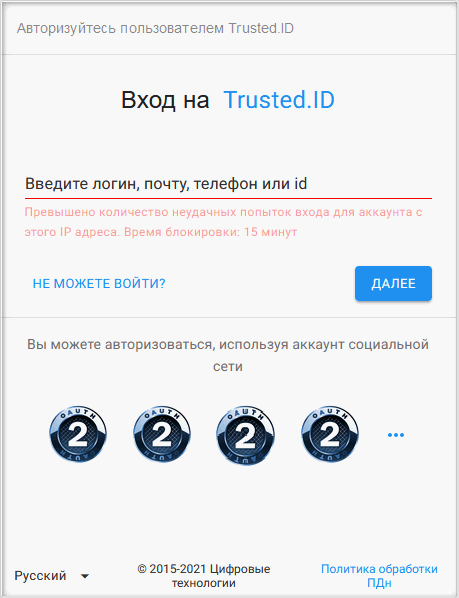
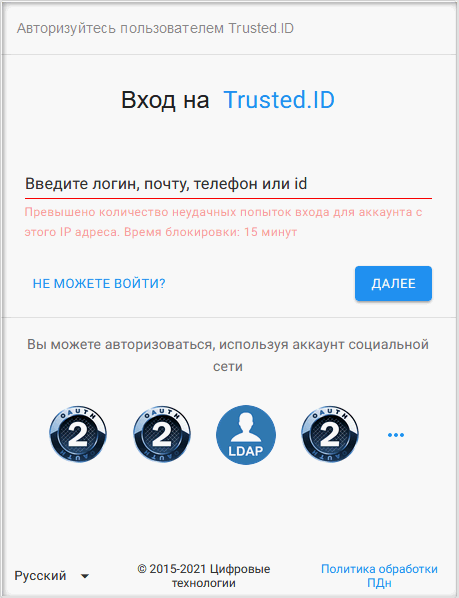
desc

Changed region(s): [[0.4575, 0.6622, 0.61, 0.7826]]

diff --git a/content/04-v1.5/8-instructions/LDAP.md b/content/04-v1.5/8-instructions/LDAP.md
@@ -1,0 +1,97 @@
+---
+slug: "/post2"
+title: "Создание LDAP-провайдера и подключение в приложение для авторизации через провайдер"
+sort: "03"
+---
+
+## Создание LDAP-провайдера и подключение в приложение для авторизации через провайдер
+
+
+![ldap-image](./images/ldap-image.png "LDAP")
+
+Провайдер LDAP предназначен для авторизации пользователя через настроенный Active Directory.
+
+***Active Directory*** — служба каталогов корпорации Microsoft, предназначеная для хранения и организации объектов сети в иерархическую защищенную логическую структуру, например пользователей, компьютеров или других физических ресурсов. 
+
+Более подробно можно ознакомиться с следующих источниках:
+* [Википедия](https://ru.wikipedia.org/wiki/Active_Directory);
+* [1cloud](https://1cloud.ru/help/windows/struktura-hranilischa-active-directory).
+----
+
+## Предварительные шаги
+
+1. Зарегистрируйтесь и/или авторизуйтесь на сервисе (далее рассматривается сервис [TRUSTED.PLUS](https://id.trusted.plus)).
+   
+2. Создайте приложение.  
+   [Инструкция по созданию приложения.](https://docs.trusted.plus/03-v1.3/8-instructions/create-app)
+   
+##  Шаг 1. Создание провайдера типа LDAP
+
+1. Выберите раздел **Мои провайдеры** в навигационой панели в личном кабинете.
+   
+   ![my-provider](./images/my-provider.png "Мои провайдеры")
+   
+2. Нажмите на кнопку добавление нового провайдера и выберите провайдер **LDAP**.
+   
+   ![add-provider-btn](./images/add-app-button.png "Кнопка добавления нового провайдера") ![select-prov-button](./images/select-prov-button.png "Список типов провайдеров")
+
+4. В открывшейся форме укажите:
+   - название LDAP-провайдера;
+   - адрес сервера LDAP (поле ldap_url);
+   - контекст учетных записей LDAP (поле ldap_base);
+   - имя домена LDAP (поле ldap_domain).
+
+    При необходимости, заполните поля:
+    - описание провайдера;
+    - адрес профиля пользователя;
+    - фильтр поиска учетной записи (поле ldap_filter);
+    - список сопоставления атрибутов LDAP (поле ldap_mapping).
+
+5. Нажмите кнопку **Создать**.
+
+    ![create-provider](./images/create-provider.png "LDAP провайдер")
+   
+5. Провайдер появляется в списке провайдеров:
+
+    ![view-new-provider](./images/view-new-provider.png "Список провайдеров")
+----
+##  Шаг 2. Добавление созданного LDAP провайдера в приложение
+   
+1.  Выберите раздел **Мои приложения** в личном кабинете.
+   
+      ![my-app-menu.png](./images/my-app-menu.png "Мои приложения")
+
+2. В списке приложений выберите приложение, в которое будет добавлена авторизация по LDAP-провайдеру.
+   
+      ![view-new-app.png](./images/view-new-app.png "Список приложений")
+
+3. В открывшемся окне настроек приложения в разделе **Список провайдеров** нажмите кнопку добавления нового провайдера.
+4.  ![add-provider-btn](./images/add-provider-btn-to-app.png "Кнопка добавления провайдера")
+   
+      ![add-provider-btn](./images/list-providers.png "Список подключенных провайдеров") 
+
+5. Установите флаг напротив созданного провайдера в списке доступных провайдеров и нажмите кнопку **Сохранить**.
+   
+      ![new-provider-in-path-to-access-app](./images/new-provider-in-path-to-access-app.png "Список провайдеров") 
+
+6. Список провайдеров приложения обновится, и в нем отразится добавленный провайдер.
+
+      ![paths-to-access-app](./images/paths-to-access-app.png "Список провайдеров")
+
+7. В разделе **Способы авторизации** убедитесь, что переключатель **Провайдеры внешних аккаунтов** включен.
+
+      ![flag-on.png](./images/flag-on.png "Включения флага авторизации через провайдеров внешних аккаунтов")
+
+8. Теперь авторизация в приложение доступна через LDAP-провайдер.
+     
+      ![app-login.png](./images/app-login.png "Форма авторизации в приложение")
+
+##   Шаг 3. Добавление аккаунта LDAP-провайдера в профиль пользователя
+
+Добавить аккаунт LDAP-провайдера в профиль пользователя можно несколькими способами:
+
+1. Через личный кабинет в разделе **Мой профиль**, блок **Внешние аккаунты**.
+   
+2. Через виджет авторизации, используя **Авторизацию  через социальные сети**. Процесс описан в разделе **Регистрация**.
+   
+3. Через виджет авторизации, используя **Регистрацию через социальные сети**. Процесс описан в разделе **Авторизация**.

diff --git a/content/04-v1.5/2-authorization/authorization.md b/content/04-v1.5/2-authorization/authorization.md
@@ -109,6 +109,29 @@ sort: "02"
 
  После успешной смены пароля происходит автоматический переход в профиль.
 
+# Сброс пароля 
+
+При авторизации через провайдер LDAP для пользователей предусмотрен сброс пароля.
+
+Для этого на форме авторизации нужно выбрать авторизацию через LDAP.
+
+![ldap1.png](./images/ldap1.png "Форма авторизации")
+
+Открывается форма ввода авторизационных данных пользователя в Active Directory (AD).
+
+![ldap2.png](./images/ldap2.png "Форма авторизации в AD")
+
+Для сброса пароля нужно нажать **Сбросить пароль**. Открывается форма ввода логина Active Directory.
+
+![ldap3.png](./images/ldap3.png "Форма ввода логина для сброса пароля")
+
+Необходимо ввести логин и нажать **Сбросить пароль**. 
+
+После успешной проверки пользователя в Active Directory, открывается форма ввода проверочного кода, который приходит на привязанную электронную почту, и задания нового пароля. 
+
+![ldap4.png](./images/ldap4.png "Форма ввода проверочного кода и пароля")
+
+При нажатии на кнопку **Войти** происходит вход в приложение.
 
 # Блокировка входа пользователя 
 

diff --git a/content/04-v1.5/5-providers/providers.md b/content/04-v1.5/5-providers/providers.md
@@ -12,7 +12,7 @@ sort: "01"
 
 ![providers-list.png](./images/providers-list.png "Вкладка Мои провайдеры")
 
-В сервисе поддерживается тип провайдера OAUTH2.
+В сервисе поддерживаются два типа провайдеров: LDAP, OAUTH2.
 
 Для создания нового провайдера следует нажать на кнопку добавления (+) в правом нижнем углу формы и выбрать иконку с нужным типом провайдера. 
 
@@ -46,3 +46,7 @@ sort: "01"
 Поля в разделах **Авторизация провайдера**, **Получение code**, **Получение профиля пользователя** являются специализированными, их значения служат для взаимодействия с сервисом провайдера. Для правильного заполнения полей служат подсказки в соответсвующих полях и раздел с пояснениями.
 
 ![oauth-setiings.png](./images/oauth-settings.png "Блок с пояснениями для заполнения полей у OAUTH2-провайдера")  
+
+**ИНСТРУКЦИИ ПО ТЕМЕ:**
+
+1. [Создание LDAP провайдера и подключение в приложение для авторизации через провайдер.](https://docs.trusted.plus/03-v1.3/8-instructions/LDAP) 

diff --git a/content/04-v1.5/2-authorization/registration.md b/content/04-v1.5/2-authorization/registration.md
@@ -59,3 +59,11 @@ sort: "01"
 
 После перехода на виджет регистрации, нужно пройти регистрацию, описанную в разделе **Регистрация пользователя**. 
 
+# Авторегистрация пользователя через провайдер LDAP
+
+Авторегистрация пользователя возможна при одновременном выполнении следующих условий:  
+- у приложения подключен один провайдер LDAP;  
+- у приложения настроена авторицация через внешний провайдер.  
+
+При авторизации через провайдер LDAP, если в сервисе не найден пользователь с такими идентификационными данными, то происходит автоматическая регистрация этого пользователя.
+

diff --git a/content/04-v1.5/8-instructions.md b/content/04-v1.5/8-instructions.md
@@ -4,4 +4,4 @@ metaTitle: "Trusted.Net"
 metaDescription: "This is the meta description for this page"
 ---
 
-В данном разделе описаны инструкции по созданию **Приложения**, установке и настройке модуля **Bitrix**, настройке авторизации в системе **Grafana**, **Moodle**, **Gitlab**, настройке авторизации через **Google**, **VK**, **Mail**, **Yandex**, **eVision.ID**, **kloud.ID**.
+В данном разделе описаны инструкции по созданию **Приложения**, **LDAP-провайдера**, установке и настройке модуля **Bitrix**, настройке авторизации в системе **Grafana**, **Moodle**, **Gitlab**, настройке авторизации через **Google**, **VK**, **Mail**, **Yandex**, **eVision.ID**, **kloud.ID**.

diff --git a/content/04-v1.5.md b/content/04-v1.5.md
@@ -6,12 +6,13 @@ metaDescription: "This is the meta description for this page"
 
 # Список изменений
 
-1. Реализована функция подключения систем аналитики для сайтов Яндекс.Метрика и Google Analytics.
-2. Реализован механизм выбора провайдеров через файл конфигурации.
-3. Добавлены новые провайдеры для прохождения авторизации:
+1.  Добавлены новые провайдеры для прохождения авторизации:
 -	AppleID;
 -	eVision.ID;
--	kloud.ID.
+-	Kloud.ID.
+
+2. Реализован механизм выбора провайдеров через файл конфигурации.
+3. Реализована функция подключения Яндекс.Метрики.
  
 
 
